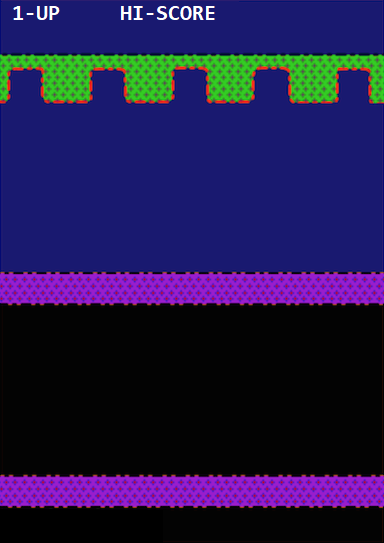
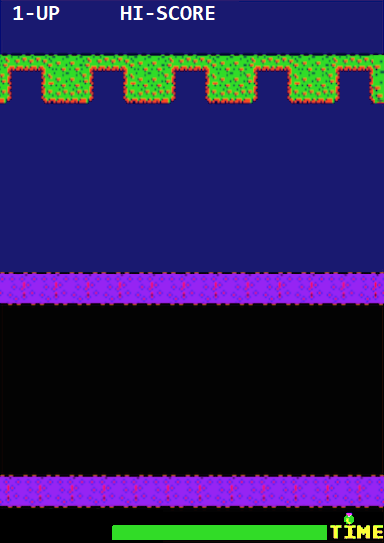
fixed game lagging by modifying setLive and modified boundaries

Changed region(s): [[0.0, 0.8545, 1.0, 1.0], [0.0, 0.0884, 1.0, 0.2063], [0.0, 0.5009, 1.0, 0.5599]]

diff --git a/TryFrog1/src/p4_group_8_repo/FroggerApp.java b/TryFrog1/src/p4_group_8_repo/FroggerApp.java
@@ -19,6 +19,8 @@ import javafx.util.Duration;
 
 public class FroggerApp extends Application {
 	AnimationTimer timer;
+	AnimationTimer timerl;
+	AnimationTimer timerg;
 	MyStage background;
 	Frogger animal;
 	public static void main(String[] args) {
@@ -38,52 +40,56 @@ public class FroggerApp extends Application {
 
 		background.add(froggerback);
 		
-		background.add(new End(7,68));
-		background.add(new End(96,68));
-		background.add(new End(96 + 40 + 50, 68));
-		background.add(new End(96 + (40 + 50)*2 ,68));
-		background.add(new End(96 + (40 + 50)*3,68));
+		background.add(new End(6,68));
+		background.add(new End(95,68));
+		background.add(new End(95 + 40 + 50, 68));
+		background.add(new End(95 + (40 + 50)*2 ,68));
+		background.add(new End(95 + (40 + 50)*3,68));
 		
-		background.add(new Log("file:src/p4_group_8_repo/img/log2.png", 0, 125, 0.75));
-		background.add(new Log("file:src/p4_group_8_repo/img/log2.png", 200,125, 0.75));
-		background.add(new Log("file:src/p4_group_8_repo/img/log2.png", 400, 125, 0.75));
+		background.add(new Log("file:src/p4_group_8_repo/img/log2.png", 0, 125, 1));
+		background.add(new Log("file:src/p4_group_8_repo/img/log2.png", 200,125, 1));
+		background.add(new Log("file:src/p4_group_8_repo/img/log2.png", 400, 125, 1));
 		
-		background.add(new Turtle(0, 150, -1, 60, 50,2));
-		background.add(new WetTurtle(150,150, -1, 60, 50,2));
-		background.add(new Turtle(250, 150, -1, 60, 50,2));
-		background.add(new Turtle(350,150, -1, 60, 50,2));
-		background.add(new WetTurtle(450, 150, -1, 60, 50,2)); 
+		background.add(new Turtle(0, 150, -1.25, 60, 50,2));
+		background.add(new WetTurtle(150,150, -1.25, 60, 50,2));
+		background.add(new Turtle(250, 150, -1.25, 60, 50,2));
+		background.add(new Turtle(350,150, -1.25, 60, 50,2));
+		background.add(new WetTurtle(450, 150, -1.25, 60, 50,2)); 
 		
-		background.add(new Log("file:src/p4_group_8_repo/img/logs.png", 0,198, 2));
-		background.add(new Log("file:src/p4_group_8_repo/img/logs.png", 350, 198, 2));
+		background.add(new Log("file:src/p4_group_8_repo/img/logs.png", 0,198, 3.5));
+		background.add(new Log("file:src/p4_group_8_repo/img/logs.png", 350, 198, 3.5));
 		
-		background.add(new Log("file:src/p4_group_8_repo/img/log3.png", 0, 235, 0.75));
-		background.add(new Log("file:src/p4_group_8_repo/img/log3.png", 200,235, 0.75));
-		background.add(new Log("file:src/p4_group_8_repo/img/log3.png", 400, 235, 0.75));
+		background.add(new Log("file:src/p4_group_8_repo/img/log3.png", 0, 235, 1.5));
+		background.add(new Log("file:src/p4_group_8_repo/img/log3.png", 200,235, 1.5));
+		background.add(new Log("file:src/p4_group_8_repo/img/log3.png", 400, 235, 1.5));
 		
-		background.add(new Turtle(0, 262, -1.5, 90, 50,3));
-		background.add(new WetTurtle(120,262, -1.5, 90, 50,3));
-		background.add(new Turtle(240, 262, -1.5, 90, 50,3));
-		background.add(new Turtle(360,262, -1.5, 90, 50,3));
-		background.add(new WetTurtle(480, 262, -1.5, 90, 50,3));
+		background.add(new Turtle(0, 262, -2, 90, 50,3));
+		background.add(new WetTurtle(120,262, -2, 90, 50,3));
+		background.add(new Turtle(240, 262, -2, 90, 50,3));
+		background.add(new Turtle(360,262, -2, 90, 50,3));
+		background.add(new WetTurtle(480, 262, -2, 90, 50,3));
 
-		background.add(new Obstacle("file:src/p4_group_8_repo/img/truck1"+"left.png", 0, 340, -1));
-		background.add(new Obstacle("file:src/p4_group_8_repo/img/truck2"+"left.png", 300, 340, -1));
+		background.add(new Obstacle("file:src/p4_group_8_repo/img/truck1"+"left.png", 0, 340, -1.5));
+		background.add(new Obstacle("file:src/p4_group_8_repo/img/truck2"+"left.png", 300, 340, -1.5));
 		
-		background.add(new Obstacle("file:src/p4_group_8_repo/img/car1right.png", 0, 375, 4));
+		background.add(new Obstacle("file:src/p4_group_8_repo/img/car1right.png", 0, 375, 4.5));
 		
-		background.add(new Obstacle("file:src/p4_group_8_repo/img/car1Left.png", 0, 410, -1));
-		background.add(new Obstacle("file:src/p4_group_8_repo/img/car1Left.png", 150, 410, -1));
-		background.add(new Obstacle("file:src/p4_group_8_repo/img/car1Left.png", 300, 410, -1));
+		background.add(new Obstacle("file:src/p4_group_8_repo/img/car1Left.png", 0, 412, -1.5));
+		background.add(new Obstacle("file:src/p4_group_8_repo/img/car1Left.png", 150, 412, -1.5));
+		background.add(new Obstacle("file:src/p4_group_8_repo/img/car1Left.png", 300, 412, -1.5));
 		
-		background.add(new Obstacle("file:src/p4_group_8_repo/img/truck2Right.png", 100, 450, 1.25));
-		background.add(new Obstacle("file:src/p4_group_8_repo/img/truck1right.png", 400, 450, 1.25));
+		background.add(new Obstacle("file:src/p4_group_8_repo/img/truck2Right.png", 100, 450, 1.5));
+		background.add(new Obstacle("file:src/p4_group_8_repo/img/truck1right.png", 400, 450, 1.5));
 		
-		background.add(new Obstacle("file:src/p4_group_8_repo/img/car1left.png", 0, 490, -1));
-		background.add(new Obstacle("file:src/p4_group_8_repo/img/car1left.png", 150, 490, -1));
-		background.add(new Obstacle("file:src/p4_group_8_repo/img/car1left.png", 300, 490, -1));
+		background.add(new Obstacle("file:src/p4_group_8_repo/img/car1left.png", 0, 490, -1.5));
+		background.add(new Obstacle("file:src/p4_group_8_repo/img/car1left.png", 150, 490, -1.5));
+		background.add(new Obstacle("file:src/p4_group_8_repo/img/car1left.png", 300, 490, -1.5));
 		
-		
+		background.add(new Life("life", 0));
+		background.add(new Life("life", 25));
+		background.add(new Life("life", 50));
+		background.add(new Life("life", 75));
+
 		
 		
 		
@@ -125,6 +131,8 @@ public class FroggerApp extends Application {
             }
         };
     }
+	
+	
 	public void start() {
 		background.playMusic();
     	createTimer();
@@ -162,15 +170,12 @@ public class FroggerApp extends Application {
     	}
     }
     public void setLives(int l) {
-    		  int shift = 0;
-    		  for(int i = 0;i<l; i++) {
-    		     background.add(new Life("life", shift));
-  	    		  shift+=25;
-    		    }
-    		  for(int i = 0; i<(4-l); i++) {
-    			  background.add(new Life("dead", shift));
-  	    		  shift+=25;
+    		  for(int i=3; i>l-1; i--) {
+    			  background.getObjects(Life.class).get(i).setDead();
     		  }
+ 		     
+
+    		 
     	    	
     }
 }

diff --git a/TryFrog1/src/p4_group_8_repo/Frogger.java b/TryFrog1/src/p4_group_8_repo/Frogger.java
@@ -23,10 +23,9 @@ public class Frogger extends Actor {
 	int end = 0;
 	private boolean second = false;
 	boolean noMove = false;
-	
 	double movement = 18.5;
 	double movementX = 18.5;
-	int imgSize = 30;
+	int imgSize = 28;
 	boolean carDeath = false;
 	boolean waterDeath = false;
 	boolean stop = false;
@@ -141,10 +140,10 @@ public class Frogger extends Actor {
 		if (getY()<0 || getY()>530) {
 			setY(530);
 		}
-		if (getX()<0) {
+		if (getY()>280 && getX()<0) {
 			move(movement, 0);
 		}
-		if (getX()>400) {
+		if (getY()>280 && getX()>400) {
 			move(-movement, 0);
 		}
 		if (carDeath) {
@@ -214,8 +213,9 @@ public class Frogger extends Actor {
 		if (getIntersectingObjects(Obstacle.class).size() >= 1) {
 			carDeath = true;
 		}
-		if (getX() == 240 && getY() == 82) {
-			stop = true;
+		
+		if(getY()<280 && (getX()<0 || getX()>400)) {
+			waterDeath = true;
 		}
 		
 		if (getIntersectingObjects(Log.class).size() >= 1 && !noMove) 

diff --git a/TryFrog1/src/p4_group_8_repo/Life.java b/TryFrog1/src/p4_group_8_repo/Life.java
@@ -18,6 +18,11 @@ public class Life extends Actor {
 		setY(565);
 	}
 	
+	public void setDead() {
+		setImage( new Image("file:src/p4_group_8_repo/img/dead-icon.png", 20, 20, true, true));
+		
+	}
+	
 
 	@Override
 	public void act(long now) {

diff --git a/TryFrog1/src/p4_group_8_repo/GameTimer.java b/TryFrog1/src/p4_group_8_repo/GameTimer.java
@@ -1,0 +1,9 @@
+package p4_group_8_repo;
+
+public class GameTimer {
+
+	public GameTimer() {
+		// TODO Auto-generated constructor stub
+	}
+
+}
